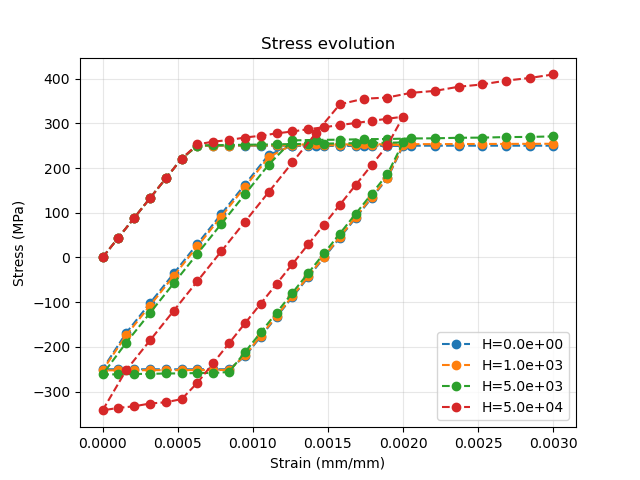
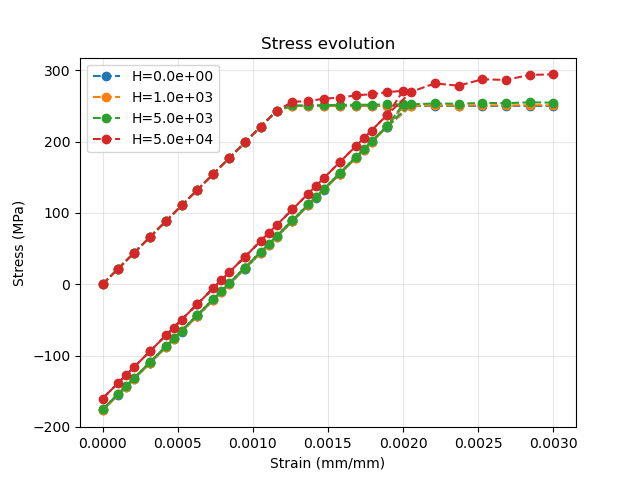
Started reading report for week03

diff --git a/code/week02/plasticity_1d_hardening.py b/code/week02/plasticity_1d_hardening.py
@@ -65,6 +65,7 @@ def return_mapping_isotropic_hardening(eps_n, d_eps, eps_p_n, alpha_n, E, sigma_
         sigma = (1-delta_gamma*E/np.abs(sigma_e)) * sigma_e
                
         return sigma, eps_p_n + d_eps_p, alpha_n
+    
 
 def test_hardening_comparison():
     """Parameter study: H = 0, 1 GPa, 5 GPa"""
@@ -119,6 +120,7 @@ def test_hardening_comparison():
     ax.legend()
     plt.show()
     fig.savefig("week02_hardening_comparison.png")
+
 
 if __name__ == '__main__':
     test_hardening_comparison()

diff --git a/journal/week02submission.md b/journal/week02submission.md
@@ -4,34 +4,34 @@
 
 **Assignment 2.1 - Theory:**
 https://raw.githubusercontent.com/b1llg/vprom/refs/heads/main/reports/weekly/week02_return-mapping-theory.md
+return mapping figure: https://raw.githubusercontent.com/b1llg/vprom/refs/heads/main/reports/weekly/returnmapping_figure.png
+
 
 **Assignment 2.2 - Analytical:**
-https://raw.githubusercontent.com/b1llg/vprom/refs/heads/main/reports/weekly/week02_analytical_exercise.md
+https://raw.githubusercontent.com/b1llg/vprom/refs/heads/main/reports/weekly/week02_analytical_ecercise.md
 
 **Assignment 2.3 - Perfect Plasticity Code:**
-https://raw.githubusercontent.com/b1llg/vprom/main/code/week02/plasticity_1d_perfect.py
+https://raw.githubusercontent.com/b1llg/vprom/refs/heads/main/code/week02/plasticity_1d_perfect.py
+stress figure: https://raw.githubusercontent.com/b1llg/vprom/refs/heads/main/code/week02/week02_perfect_plasticity.png
+plastic strain figure: https://raw.githubusercontent.com/b1llg/vprom/refs/heads/main/code/week02/week02_plastic_strain.png
 
 **Assignment 2.4 - Hardening Code:**
-https://raw.githubusercontent.com/b1llg/vprom/main/code/week02/plasticity_1d_hardening.py
+https://raw.githubusercontent.com/b1llg/vprom/refs/heads/main/code/week02/plasticity_1d_hardening.py
+figure: https://raw.githubusercontent.com/b1llg/vprom/refs/heads/main/code/week02/week02_hardening_comparison.png
 
 **Assignment 2.4 - Hardening Analysis:**
-https://raw.githubusercontent.com/b1llg/vprom/main/reports/weekly/week02_hardening_analysis.md
+https://raw.githubusercontent.com/b1llg/vprom/refs/heads/main/reports/weekly/week02_hardening_analysis.md
 
 **Journal:**
 https://raw.githubusercontent.com/b1llg/vprom/main/journal/journal.md
 
 **Plots:**
-- https://raw.githubusercontent.com/b1llg/vprom/main/code/week02_perfect_plasticity.png
-- https://raw.githubusercontent.com/b1llg/vprom/main/code/week02_plastic_strain.png
-- https://raw.githubusercontent.com/b1llg/vprom/main/code/week02_hardening_comparison.png
-
-
+- See figures above
 
 ## Summary
 - Completed the code assignements and it helped me a lot. The theory makes a lot more sense now
 - The analytical exercice wich fits with the algorithm version with strain increment is really nice to see.
 - The reading assignement has been done at the end. Doing the applications first made it easier to understand
-
 
 ## Key Results
 
@@ -54,13 +54,8 @@ https://raw.githubusercontent.com/b1llg/vprom/main/journal/journal.md
 ## Code Snippet for Review
 - See links above
 
-
-
 ## Questions/Issues
-
 - Difference between $\varepsilon^{p}$ and $\alpha$
-
-
 
 ## Time Spent
 Total: approx. 25 hours

diff --git a/reports/weekly/week03_viscoplasticity_theory.md b/reports/weekly/week03_viscoplasticity_theory.md
@@ -1,0 +1,35 @@
+# Week 3 - Reading notes
+- Simo & Hughes: Chapter 1, Section 1.7 (1D Viscoplasticity)
+- Dunne & Petrinic: Chapter 2, Sections 2.7 (Viscoplasticity and creep)
+
+## 1. Rate-Dependent vs Rate-Independent Plasticity
+
+### What's the fundamental difference?
+Rate independent means that the rate at which the material is deformed, doesn't have any impact on material properties. Rate dependent means the opposite. For example, some steels at elevated temperature exhibit rate dependance. Higher strain rate means higher yield stress and most likely lower strain at failure. Lower strain means lower yield stress and for very low strain rate the material could exhibit creep.
+
+### Kuhn-Tucker conditions vs viscoplastic flow rule
+The Kuhn-Tucker conditions specify that for any stress state, $\lambda f=0$, $\lambda \geq 0$ and $f \leq 0$. This means that for any stress state in the stress space, the stress must lie on the yield enveloppe ($\partial \mathbb{E_{\sigma}}$). However, viscoplastic material have ***over stress*** also called ***viscous stress*** which we could say hardened the material (in the sense of strength hardening), in reference to the last question. The KKT condition then is relaxed for these type of material to this new effect into account.
+
+## 2. Perzyna Model :
+Governing equation: $\varepsilon^{vp}=\tfrac{1}{\eta} \langle \Phi(f) \rangle^{n}$
+
+### What is $\eta$ (viscosity parameter)?
+The rate at which the over stress dissipate. Lower viscosity higher rate of dissipation. 
+### What is $n$ (rate sensitivity exponent)?
+Higher rate sensiticity means that the overstress gets higher as the strain rate gets higher
+### What happens as $η \rightarrow 0$ ? As $\eta \rightarrow \infty$?
+- $\eta \rightarrow 0$: The stress dissipate rapidly
+- $\eta \rightarrow \infty$: The stress dissipate slowly
+
+## 3. Time Integration Algorithm
+
+### Why backward Euler for viscoplasticity?
+### Implicit vs explicit integration
+### Return mapping for viscoplastic case
+### Derive plastic multiplier: $\Delta\lambda=\dfrac{\Delta t}{\eta}\langle \tfrac{f}{\sigma_{y}} \rangle^{n}$ for $n=1$
+## 4. Physical Phenomena
+
+### Creep: constant stress, strain increases
+### Relaxation: constant strain, stress decreases
+### Strain rate sensitivity: higher rate → higher stress
+*Include sketch showing creep and relaxation behavior.*

diff --git a/reports/weekly/week02_hardening_analysis.md b/reports/weekly/week02_hardening_analysis.md
@@ -8,9 +8,7 @@ Initially, only $H = [0, 1, 5] GPa$ was requested. I added $H=50GPa$ to show the
 
 ### Effect on loading curve
 #### How does H change the stress-strain response during loading?
-The higher H gets, the higher/lower the stress becomes when raising or lowering the strain. This happens because of energy conservation where: 
-$$ E=\int_{\Omega}\sigma:\varepsilon d\Omega $$
-Meaning that for an increase in strain, the stress value has to be higher for and an higher value of H if the increase of strain is positive. The same goes if the increase of strain is negative (compression).
+Because hardening increases yield stress. Meaning that for an increase in strain, the stress value has to be higher for and an higher value of H if the increase of strain is positive. The same goes if the increase of strain is negative (compression).
 #### Why does stress continue increasing beyond σ_y0?
 Because of hardening. The hardening law is says that for an increase of $\epsilon^{p}$, $\sigma_{y}$ must increase proportional to parameter $H$
 
@@ -52,4 +50,4 @@ The more accumulated hardening (accumulated plastic strain) the higher the new y
 #### Explain physically what isotropic hardening represents
 Isotropic hardening means that when yielding occurs, the yield surface needs to expand in such a way that the yield criterion $f=0$. Also, that expansion needs to follow the vector normal to the yield surface, at that location.
 #### Why does larger H make the material "stiffer" during plastic flow?
-As explained before, because of energy conservation. Higher $H$, higher stress, smaller hysterisis path.
+Because of the same reason explained in a previous question. Increased plastic strain directly increase the yield stress, raising the stress significantly to match the increase in total strain.

diff --git a/journal/journal.md b/journal/journal.md
@@ -15,8 +15,17 @@ What was frustrating?
 Interesting observations?
 Questions for next meeting?
 ```
+## Week 3: 25-11-03 - 25-11-19
+### 2025-11-02:
+- Started the reading assignement. About 1hr
+
+### 2025-11-02:
+- Read both required chapters in Simo and Dunn. About 2hrs.
 
 ## Week 2: 2025-10-27 - 2025-11-02
+### 2025-11-02:
+- Completed reading assignment. 
+
 ### 2025-11-01:
 - Finalized code and report assignment for the codes
 - Started to fill the submission form

diff --git a/journal/week03submission.md b/journal/week03submission.md
@@ -1,0 +1,21 @@
+# Week 3 Check-in
+
+## Deliverables:
+**Theory:** [URL]
+**Code:** [URL]
+**Analysis:** [URL]
+**Journal:** [URL]
+**Plots:** [describe/link]
+
+## Key Results:
+- Rate sensitivity: σ_peak(fast)/σ_peak(slow) = ?
+- Creep rate at t=100s: dε/dt = ?
+- Relaxation: σ(t=0) = ?, σ(t=100) = ?
+
+## Code snippet:
+[paste return_mapping_viscoplasticity]
+
+## Questions/Issues:
+[...]
+
+## Time: X hours
